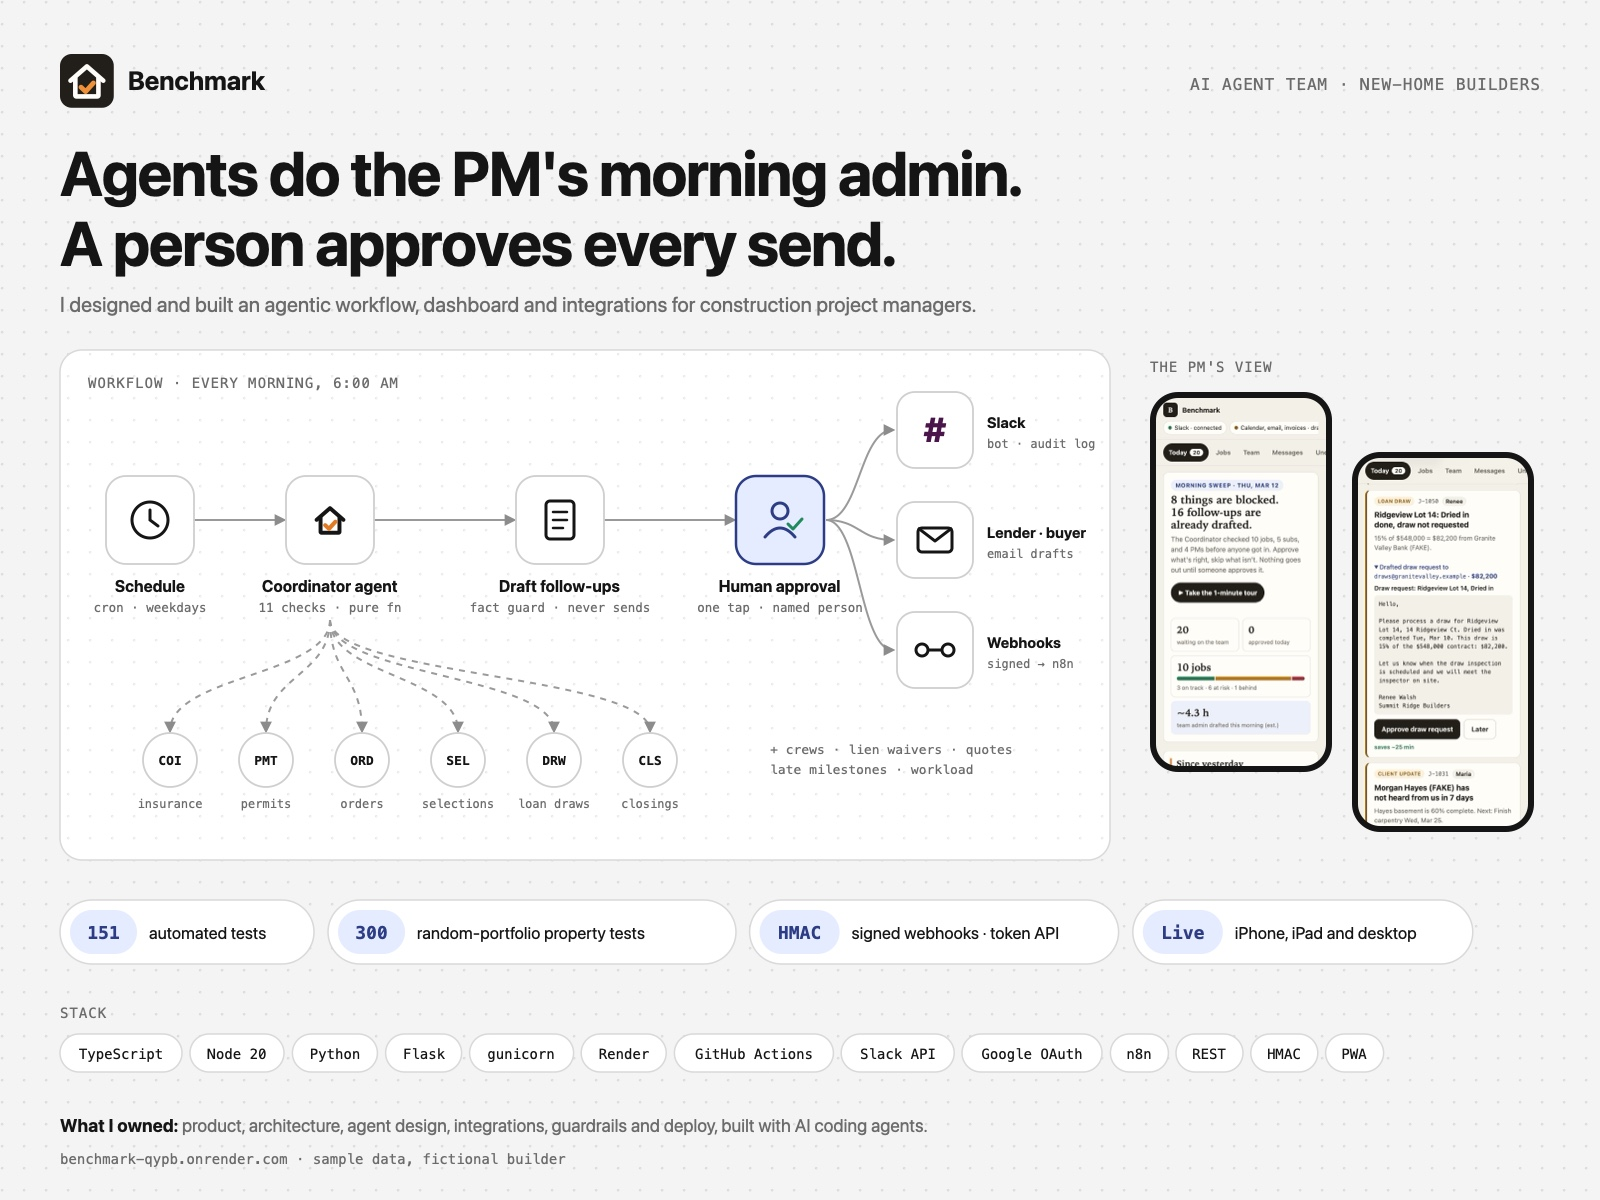
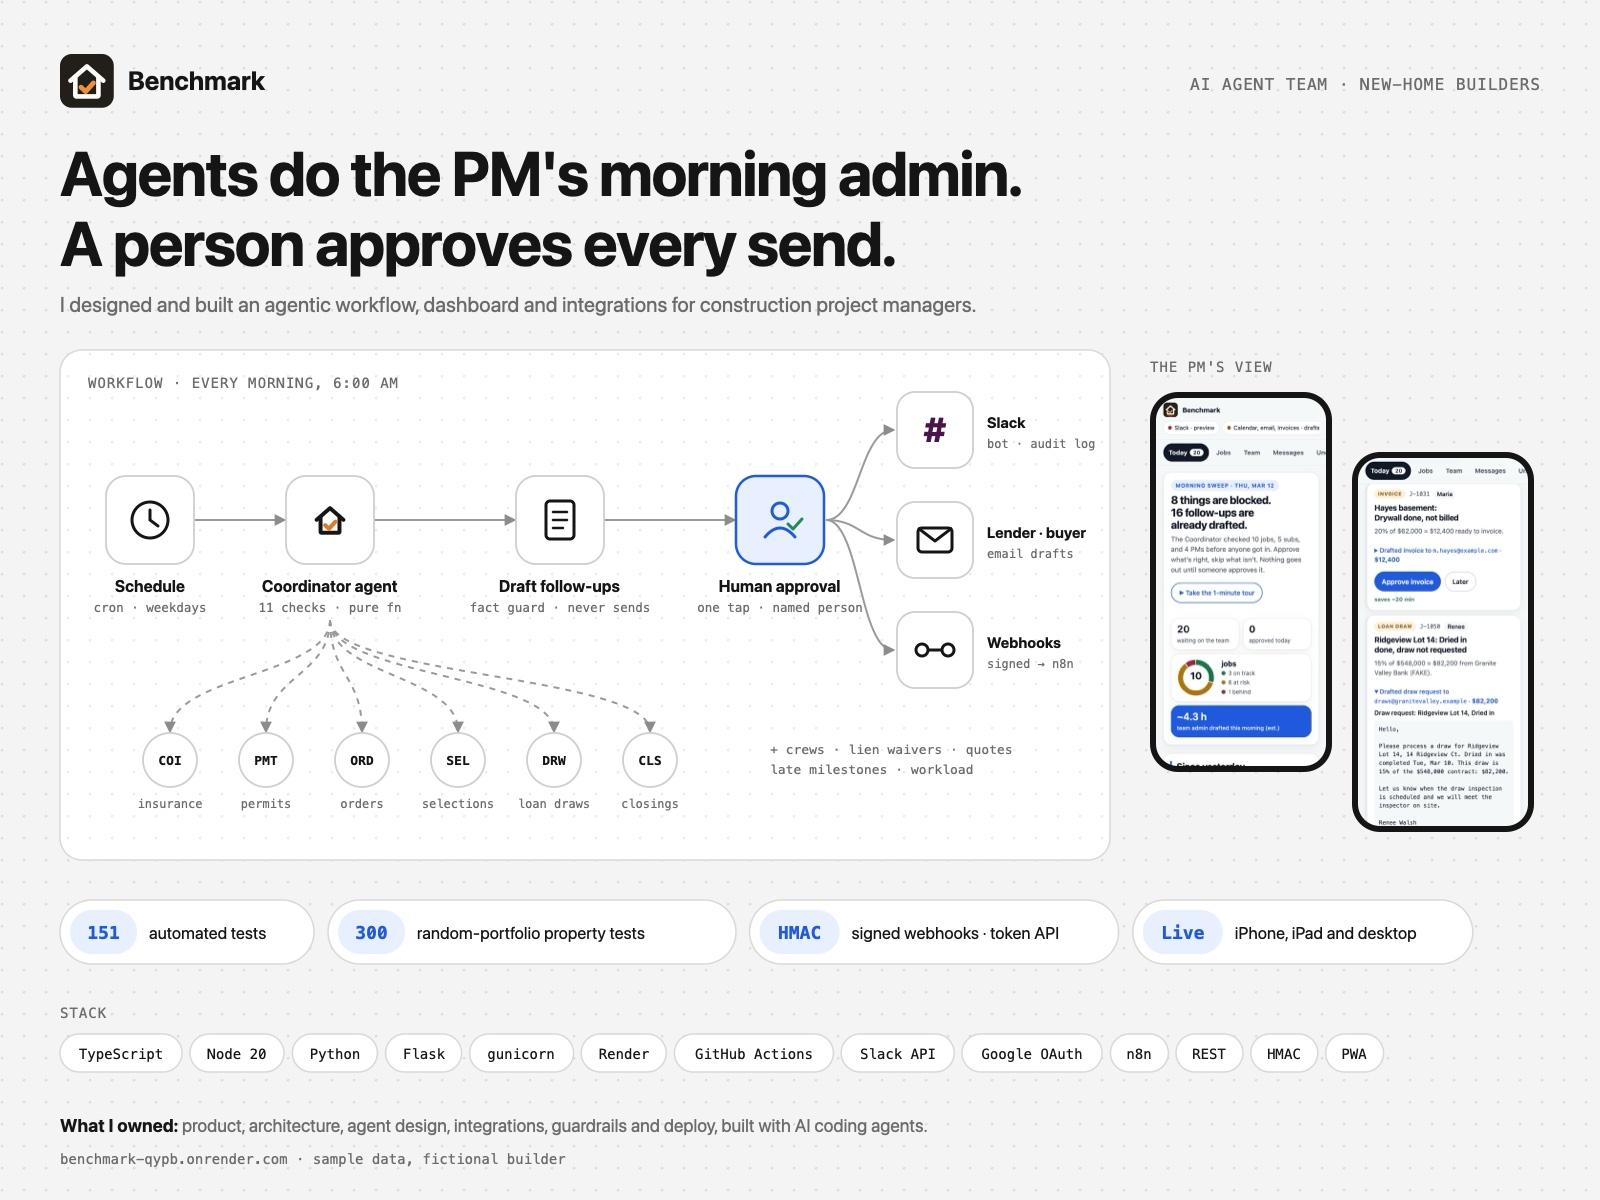
Final look: friendly, calm and production-grade (#27)

diff --git a/dashboard/static/dashboard.css b/dashboard/static/dashboard.css
@@ -665,3 +665,108 @@ section, .since { border-color: var(--line); }
 .wf-line { fill: none; stroke: var(--muted); stroke-width: 1.8; }
 .wf-dash { stroke-dasharray: 5 5; }
 .wf-arrow { fill: var(--muted); }
+
+/* =====================================================================================
+   Final look. Clean and calm for a PM between site visits, confident for a client demo:
+   friendly blue for actions, white cards with soft shadows on a quiet surface, sentence-case
+   pill buttons, tinted stages, pastel icon tiles, widget-style metrics. Monospace stays only
+   inside the workflow canvas. Flat colours throughout.
+   ===================================================================================== */
+:root {
+  --bg: #f6f7f9; --paper: #ffffff; --ink: #111827; --muted: #4b5563;
+  --line: #e5e7eb; --line-strong: #d1d5db; --dot: #e2e5ea;
+  --accent: #1f5ae0; --accent-bg: #e8efff; --stage: #eef3ff; --on-accent: #ffffff;
+  --header: rgba(246, 247, 249, 0.92); --title-rule: var(--accent);
+  --shadow: 0 1px 2px rgba(17, 24, 39, 0.04), 0 6px 20px rgba(17, 24, 39, 0.05);
+  --tile-blue: #e8efff; --tile-blue-ink: #1f5ae0; --tile-green: #e6f6ee; --tile-green-ink: #1b754e;
+  --tile-amber: #fdf1e1; --tile-amber-ink: #a8590f;
+}
+@media (prefers-color-scheme: dark) {
+  :root:not([data-theme="light"]) {
+    --bg: #0d1016; --paper: #151922; --ink: #eef1f6; --muted: #a1abb9;
+    --line: #232a36; --line-strong: #333c4b; --dot: #1d2330;
+    --accent: #8fb0ff; --accent-bg: #1a2440; --stage: #121a2c; --on-accent: #0d1016;
+    --header: rgba(13, 16, 22, 0.92); --shadow: none;
+    --tile-blue: #1a2440; --tile-blue-ink: #8fb0ff; --tile-green: #13281f; --tile-green-ink: #8fd8b3;
+    --tile-amber: #2b2114; --tile-amber-ink: #f0b46a;
+  }
+}
+:root[data-theme="dark"] {
+  --bg: #0d1016; --paper: #151922; --ink: #eef1f6; --muted: #a1abb9;
+  --line: #232a36; --line-strong: #333c4b; --dot: #1d2330;
+  --accent: #8fb0ff; --accent-bg: #1a2440; --stage: #121a2c; --on-accent: #0d1016;
+  --header: rgba(13, 16, 22, 0.92); --shadow: none;
+  --tile-blue: #1a2440; --tile-blue-ink: #8fb0ff; --tile-green: #13281f; --tile-green-ink: #8fd8b3;
+  --tile-amber: #2b2114; --tile-amber-ink: #f0b46a;
+}
+body { background: var(--bg); background-image: none; }
+.wf-dot { fill: var(--dot); }
+
+/* Surfaces */
+section, .since, .qcard, .jcard, .kpi, .pain, .life, .eng, .faq details, .welcome-card, .land-final, .check-feed, .proof {
+  border: 1px solid var(--line); border-radius: 18px; box-shadow: var(--shadow);
+}
+.kpi { background: var(--paper); }
+.qcard { border-left-width: 4px; }
+
+/* Labels: readable caps in sans, not code. */
+.eyebrow, .found-label, .land-kicker, .land-eyebrow, .tour .tour-step, .ev-kind, .pill, .since-group h3, .col h3, .signin-label {
+  font-family: var(--sans); letter-spacing: .07em; font-weight: 700;
+}
+.tabs a { font-family: var(--sans); font-size: 14px; letter-spacing: 0; font-weight: 600; }
+
+/* Buttons: one solid blue for the main action, outlined pills for the rest. Sentence case. */
+.btn.demo, .land-bar-cta, .qactions .approve {
+  background: var(--accent); color: var(--on-accent); border: 0; border-radius: 999px;
+  font: 600 15px var(--sans); text-transform: none; letter-spacing: 0;
+}
+.btn.demo:hover, .land-bar-cta:hover, .qactions .approve:hover { filter: brightness(1.06); }
+.tour-start, .qactions .skip {
+  background: transparent; color: var(--accent); border: 1.5px solid var(--accent); border-radius: 999px;
+  font: 600 14px var(--sans); text-transform: none; letter-spacing: 0;
+}
+.qactions .skip { color: var(--ink); border-color: var(--line-strong); }
+
+/* Brand: italic serif accent word, as a quiet signature. */
+.land-title em { font-family: Georgia, "Iowan Old Style", serif; font-style: italic; font-weight: 600; color: var(--accent); }
+
+/* Landing: tinted hero stage, KPI cards, icon tiles, engineering grid */
+.land-stage { background: var(--stage); border-radius: 28px; padding: 28px 22px; margin-top: 8px; }
+.land-stage .welcome-card { box-shadow: var(--shadow); }
+.land-proof { background: none; color: var(--ink); padding: 0; border: 0; box-shadow: none; }
+.land-proof .land-kicker { color: var(--accent); } .land-proof .land-kicker span { color: var(--muted); opacity: 1; }
+.proof { background: var(--paper); padding: 16px; }
+.proof span { opacity: 1; color: var(--muted); }
+.proof.hi { background: var(--accent); border-color: var(--accent); color: var(--on-accent); }
+.proof.hi span { color: var(--on-accent); opacity: .9; }
+.icon-tile { display: inline-grid; place-items: center; width: 44px; height: 44px; border-radius: 12px; margin-bottom: 10px; }
+.icon-tile svg { width: 24px; height: 24px; fill: none; stroke: currentColor; stroke-width: 1.8; stroke-linecap: round; stroke-linejoin: round; }
+.icon-tile.blue { background: var(--tile-blue); color: var(--tile-blue-ink); }
+.icon-tile.green { background: var(--tile-green); color: var(--tile-green-ink); }
+.icon-tile.amber { background: var(--tile-amber); color: var(--tile-amber-ink); }
+.pain-fix { border-top-style: solid; border-top-color: var(--line); }
+.pain-fix b { color: var(--accent); }
+.eng-grid { display: grid; gap: 12px; grid-template-columns: repeat(auto-fill, minmax(min(100%, 240px), 1fr)); }
+.eng { background: var(--paper); padding: 16px; min-width: 0; }
+.eng h3 { margin: 0 0 6px; font-size: 16.5px; }
+.eng p { margin: 0; color: var(--muted); font-size: 14px; line-height: 1.5; }
+section .eng { box-shadow: none; }
+.life-n { background: var(--accent); color: var(--on-accent); }
+.land-final { border-top: 1px solid var(--line); background: var(--stage); }
+
+/* Today: widget-style metrics with a donut for job status */
+.status-kpi { display: flex; align-items: center; gap: 14px; }
+.status-kpi .stack { display: none; }
+.donut { width: 84px; height: 84px; flex: none; transform: rotate(-90deg); }
+.donut circle { fill: none; stroke-width: 11; }
+.donut-track { stroke: var(--line); }
+.donut-seg { stroke-linecap: butt; }
+.donut-seg.s-on-track { stroke: var(--on-track); } .donut-seg.s-at-risk { stroke: var(--at-risk); } .donut-seg.s-behind { stroke: var(--behind); }
+.donut-num { transform: rotate(90deg); transform-origin: 42px 42px; font: 700 22px var(--sans); fill: var(--ink); }
+.donut-legend { display: grid; gap: 2px; font-size: 13px; color: var(--muted); }
+.donut-legend b { font: 700 16px var(--sans); color: var(--ink); }
+.donut-legend .s-dot { margin-right: 6px; }
+.kpi.accent { background: var(--accent); border-color: var(--accent); }
+.kpi.accent b, .kpi.accent span { color: var(--on-accent); }
+/* Landing sections sit on the page; only their cards are panels. */
+.landing section.land-section, .landing section.land-proof { border: 0; box-shadow: none; background: none; }

diff --git a/dashboard/templates/_welcome.html b/dashboard/templates/_welcome.html
@@ -6,10 +6,10 @@
     <a class="btn land-bar-cta" href="{{ '#today' if static_mode else url_for('demo') }}">View the demo</a>
   </header>
 
-  <div class="land-hero">
+  <div class="land-hero land-stage">
     <div class="land-pitch">
-      <span class="land-eyebrow">For new-home builders and their PMs</span>
-      <h2 class="land-title">Every morning, the follow-ups are already written.</h2>
+      <span class="land-eyebrow">For new-home builders</span>
+      <h2 class="land-title">Every morning, the follow-ups are <em>already written.</em></h2>
       <p class="land-sub">Benchmark's AI agents check every home, trade and PM before anyone gets in: insurance, permits, orders, buyer selections, loan draws and closing dates. Then they draft the fix. Your PMs approve in one tap. Nothing goes out without a person.</p>
       <ul class="land-ticks">
         <li>Catches what slips between the office, the field and the lender</li>
@@ -47,7 +47,7 @@
   <section class="land-proof" aria-label="From this morning's demo">
     <p class="land-kicker">This morning at {{ landing.company }} <span>(the sample builder in the demo)</span></p>
     <div class="proof-grid">
-      {% for p in landing.proof %}<div class="proof"><b>{{ p.value }}</b><span>{{ p.label }}</span></div>{% endfor %}
+      {% for p in landing.proof %}<div class="proof{{ ' hi' if p.value.startswith('$') }}"><b>{{ p.value }}</b><span>{{ p.label }}</span></div>{% endfor %}
     </div>
   </section>
 
@@ -56,16 +56,19 @@
     <h2>The day gets eaten by things nobody else is checking</h2>
     <div class="pain-grid">
       <article class="pain">
+        <span class="icon-tile blue" aria-hidden="true"><svg viewBox="0 0 24 24"><rect x="3.5" y="5" width="17" height="15" rx="3"/><path d="M8 3v4M16 3v4M3.5 10h17M12 13.5v3l2 1"/></svg></span>
         <h3>Schedules slip quietly</h3>
         <p class="pain-problem">Trusses that were never ordered. A sub whose insurance lapsed. A crew booked on two jobs Friday.</p>
         <p class="pain-fix"><b>Benchmark</b> checks every order-by date, certificate and booking each morning and flags it while there is still time.</p>
       </article>
       <article class="pain">
+        <span class="icon-tile green" aria-hidden="true"><svg viewBox="0 0 24 24"><rect x="3" y="6" width="18" height="12" rx="3"/><circle cx="12" cy="12" r="2.6"/><path d="M6.5 9.5v5M17.5 9.5v5"/></svg></span>
         <h3>Money waits on paperwork</h3>
         <p class="pain-problem">A home dried in last week, but nobody asked the lender for the draw. A final payment waits on one lien waiver.</p>
         <p class="pain-fix"><b>Benchmark</b> drafts the draw request and the waiver chase the day they are due, with the amount computed by code.</p>
       </article>
       <article class="pain">
+        <span class="icon-tile amber" aria-hidden="true"><svg viewBox="0 0 24 24"><path d="M4 11.5 12 5l8 6.5"/><path d="M6.5 10v9h11v-9"/><path d="M10 19v-4.5h4V19"/></svg></span>
         <h3>Buyers and closings drift</h3>
         <p class="pain-problem">Cabinet choices past due. A buyer who has not heard from you in a week. A closing the schedule can no longer make.</p>
         <p class="pain-fix"><b>Benchmark</b> reminds buyers, writes the update, and warns the owner when a closing is at risk.</p>
@@ -94,6 +97,12 @@
       </li>
       {% endfor %}
     </ol>
+  </section>
+
+  <section class="land-section">
+    <p class="land-kicker">Built like production software</p>
+    <h2>Safe to put in front of buyers, lenders and subs</h2>
+    {% include "_engineering.html" %}
   </section>
 
   <section class="land-section">

diff --git a/dashboard/templates/_engineering.html b/dashboard/templates/_engineering.html
@@ -1,0 +1,11 @@
+{#- Engineering and security controls, shown on the landing page and in Under the hood. -#}
+<div class="eng-grid">
+  <article class="eng"><span class="icon-tile blue" aria-hidden="true"><svg viewBox="0 0 24 24"><path d="M7 11V8a5 5 0 0 1 10 0v3"/><rect x="5" y="11" width="14" height="9" rx="2.5"/><path d="M12 14.5v2"/></svg></span><h3>Drafts only, two locks</h3><p>Nothing has a send path for email or invoices. Slack posts need sending switched on and a named, signed-in approver.</p></article>
+  <article class="eng"><span class="icon-tile green" aria-hidden="true"><svg viewBox="0 0 24 24"><path d="m8 8-4 4 4 4M16 8l4 4-4 4M13.5 5l-3 14"/></svg></span><h3>Code computes, AI phrases</h3><p>Dates, dollars and schedules are deterministic code. A guard rejects any AI rewrite that changes a fact.</p></article>
+  <article class="eng"><span class="icon-tile amber" aria-hidden="true"><svg viewBox="0 0 24 24"><path d="M9 3h6M10 3v6l-5 9a2 2 0 0 0 1.7 3h10.6a2 2 0 0 0 1.7-3l-5-9V3"/><path d="M7.5 15h9"/></svg></span><h3>Tested like it matters</h3><p>151 automated tests, including 300 random-portfolio property tests. CI runs Node and Python 3.10 and 3.12.</p></article>
+  <article class="eng"><span class="icon-tile blue" aria-hidden="true"><svg viewBox="0 0 24 24"><circle cx="12" cy="8" r="3.5"/><path d="M5 20a7 7 0 0 1 14 0"/></svg></span><h3>Secure sign-in</h3><p>Google and Slack OAuth with state checks, verified emails only, and an allowlist of who may sign in.</p></article>
+  <article class="eng"><span class="icon-tile green" aria-hidden="true"><svg viewBox="0 0 24 24"><path d="M12 3 5 6v5c0 4.5 3 8 7 10 4-2 7-5.5 7-10V6z"/><path d="m9 12 2 2 4-4"/></svg></span><h3>Hardened web app</h3><p>Per-session CSRF tokens, strict content security policy, no framing, secure cookies, secrets only in the environment.</p></article>
+  <article class="eng"><span class="icon-tile amber" aria-hidden="true"><svg viewBox="0 0 24 24"><circle cx="7" cy="12" r="3"/><circle cx="17" cy="12" r="3"/><path d="M10 12h4"/></svg></span><h3>Signed integrations</h3><p>Token-authenticated REST API. HMAC-signed webhooks with replay protection, retries and a delivery log.</p></article>
+  <article class="eng"><span class="icon-tile blue" aria-hidden="true"><svg viewBox="0 0 24 24"><path d="M4 12h3l2-5 4 10 2-5h5"/></svg></span><h3>Reliable by default</h3><p>Atomic state writes, a schema-checked data contract, health checks, and a daily brief that never double-posts.</p></article>
+  <article class="eng"><span class="icon-tile green" aria-hidden="true"><svg viewBox="0 0 24 24"><path d="M12 3v12M7 10l5 5 5-5"/><path d="M5 19h14"/></svg></span><h3>Deployed and automated</h3><p>Render Blueprint with gunicorn, GitHub Actions for CI and the 8:00 brief, n8n templates for approvals.</p></article>
+</div>

diff --git a/dashboard/templates/_app.html b/dashboard/templates/_app.html
@@ -66,11 +66,19 @@
       <div class="kpi"><b><span data-count="open">{{ t.queue|length }}</span></b><span>waiting on the team</span></div>
       <div class="kpi"><b><span data-count="done">0</span></b><span>approved today</span></div>
       <div class="kpi status-kpi">
-        <b>{{ t.jobsTotal }} jobs</b>
-        <div class="stack" role="img" aria-label="{{ t.counts['on-track'] }} on track, {{ t.counts['at-risk'] }} at risk, {{ t.counts['behind'] }} behind">
-          {% for k in ['on-track', 'at-risk', 'behind'] %}{% if t.counts[k] %}<i class="s-{{ k }}" style="flex:{{ t.counts[k] }}"></i>{% endif %}{% endfor %}
+        {%- set total = t.jobsTotal or 1 %}{% set c = 213.63 %}{% set ns = namespace(off=0) %}
+        <svg class="donut" viewBox="0 0 84 84" role="img" aria-label="{{ t.counts['on-track'] }} on track, {{ t.counts['at-risk'] }} at risk, {{ t.counts['behind'] }} behind">
+          <circle class="donut-track" cx="42" cy="42" r="34"/>
+          {%- for k in ['on-track', 'at-risk', 'behind'] %}{% if t.counts[k] %}{% set len = c * t.counts[k] / total %}
+          <circle class="donut-seg s-{{ k }}" cx="42" cy="42" r="34" stroke-dasharray="{{ '%.2f'|format(len - 2) }} {{ '%.2f'|format(c) }}" stroke-dashoffset="{{ '%.2f'|format(-ns.off) }}"/>{% set ns.off = ns.off + len %}{% endif %}{% endfor %}
+          <text x="42" y="46" text-anchor="middle" class="donut-num">{{ t.jobsTotal }}</text>
+        </svg>
+        <div class="donut-legend">
+          <b>jobs</b>
+          <span><i class="s-dot s-on-track"></i>{{ t.counts['on-track'] }} on track</span>
+          <span><i class="s-dot s-at-risk"></i>{{ t.counts['at-risk'] }} at risk</span>
+          <span><i class="s-dot s-behind"></i>{{ t.counts['behind'] }} behind</span>
         </div>
-        <span>{{ t.counts['on-track'] }} on track · {{ t.counts['at-risk'] }} at risk · {{ t.counts['behind'] }} behind</span>
       </div>
       <div class="kpi accent"><b>~{{ (t.ledger.netMinutes / 60)|round(1) }} h</b><span>team admin drafted this morning (est.)</span></div>
     </div>
@@ -321,6 +329,12 @@
     <h2>The morning workflow</h2>
     <p class="lede">What runs before anyone gets in: the Coordinator checks every job, drafts the follow-ups behind a fact guard, and waits for a named person before anything leaves.</p>
     {% include "_workflow.html" %}
+  </section>
+
+  <section>
+    <h2>Built like production software</h2>
+    <p class="lede">The controls that let a builder trust agents with buyers, lenders and subs.</p>
+    {% include "_engineering.html" %}
   </section>
 
   <section>

diff --git a/README.md b/README.md
@@ -9,8 +9,10 @@
   <img src="docs/images/screens/landing-phone.jpg" width="24%" alt="Landing page on a phone">
   <img src="docs/images/screens/today-phone.jpg" width="24%" alt="Today: what is blocked and what is already drafted">
   <img src="docs/images/screens/draw-request-phone.jpg" width="24%" alt="A drafted construction-loan draw request waiting for approval">
+  <img src="docs/images/screens/today-phone-dark.jpg" width="24%" alt="Today in dark mode">
 </p>
-<img src="docs/images/screens/timeline-desktop.jpg" width="74%" alt="Every milestone across the team on one timeline">
+<img src="docs/images/screens/workflow-desktop.jpg" width="74%" alt="The morning workflow: schedule, Coordinator agent and its checks, drafts behind a fact guard, human approval, then Slack, email drafts and signed webhooks">
+<img src="docs/images/screens/board-desktop.jpg" width="74%" alt="Where every job stands: a board by stage with status, progress and what changed since yesterday">
 
 ---
 
@@ -32,7 +34,7 @@ A new-home PM runs 6 to 10 houses at once, each with a lender, a buyer, 15 to 25
 | Crews double-booked, quotes due, late milestones | A proposed resolution |
 | PM workload against capacity | A handoff proposal |
 
-The PM gets one queue: **Approve** or **Later** on each card, a "since yesterday" diff, a two-week look-ahead, a status board and timeline, team load, an 8:00 Slack brief, and a guided tour. It works on iPhone, iPad and desktop and installs to the home screen.
+The PM gets one queue, in a clean interface built for a phone between site visits: **Approve** or **Later** on each card, a "since yesterday" diff, a two-week look-ahead, a status board and timeline, team load, an 8:00 Slack brief, and a guided tour. It works on iPhone, iPad and desktop and installs to the home screen.
 
 ---
 
